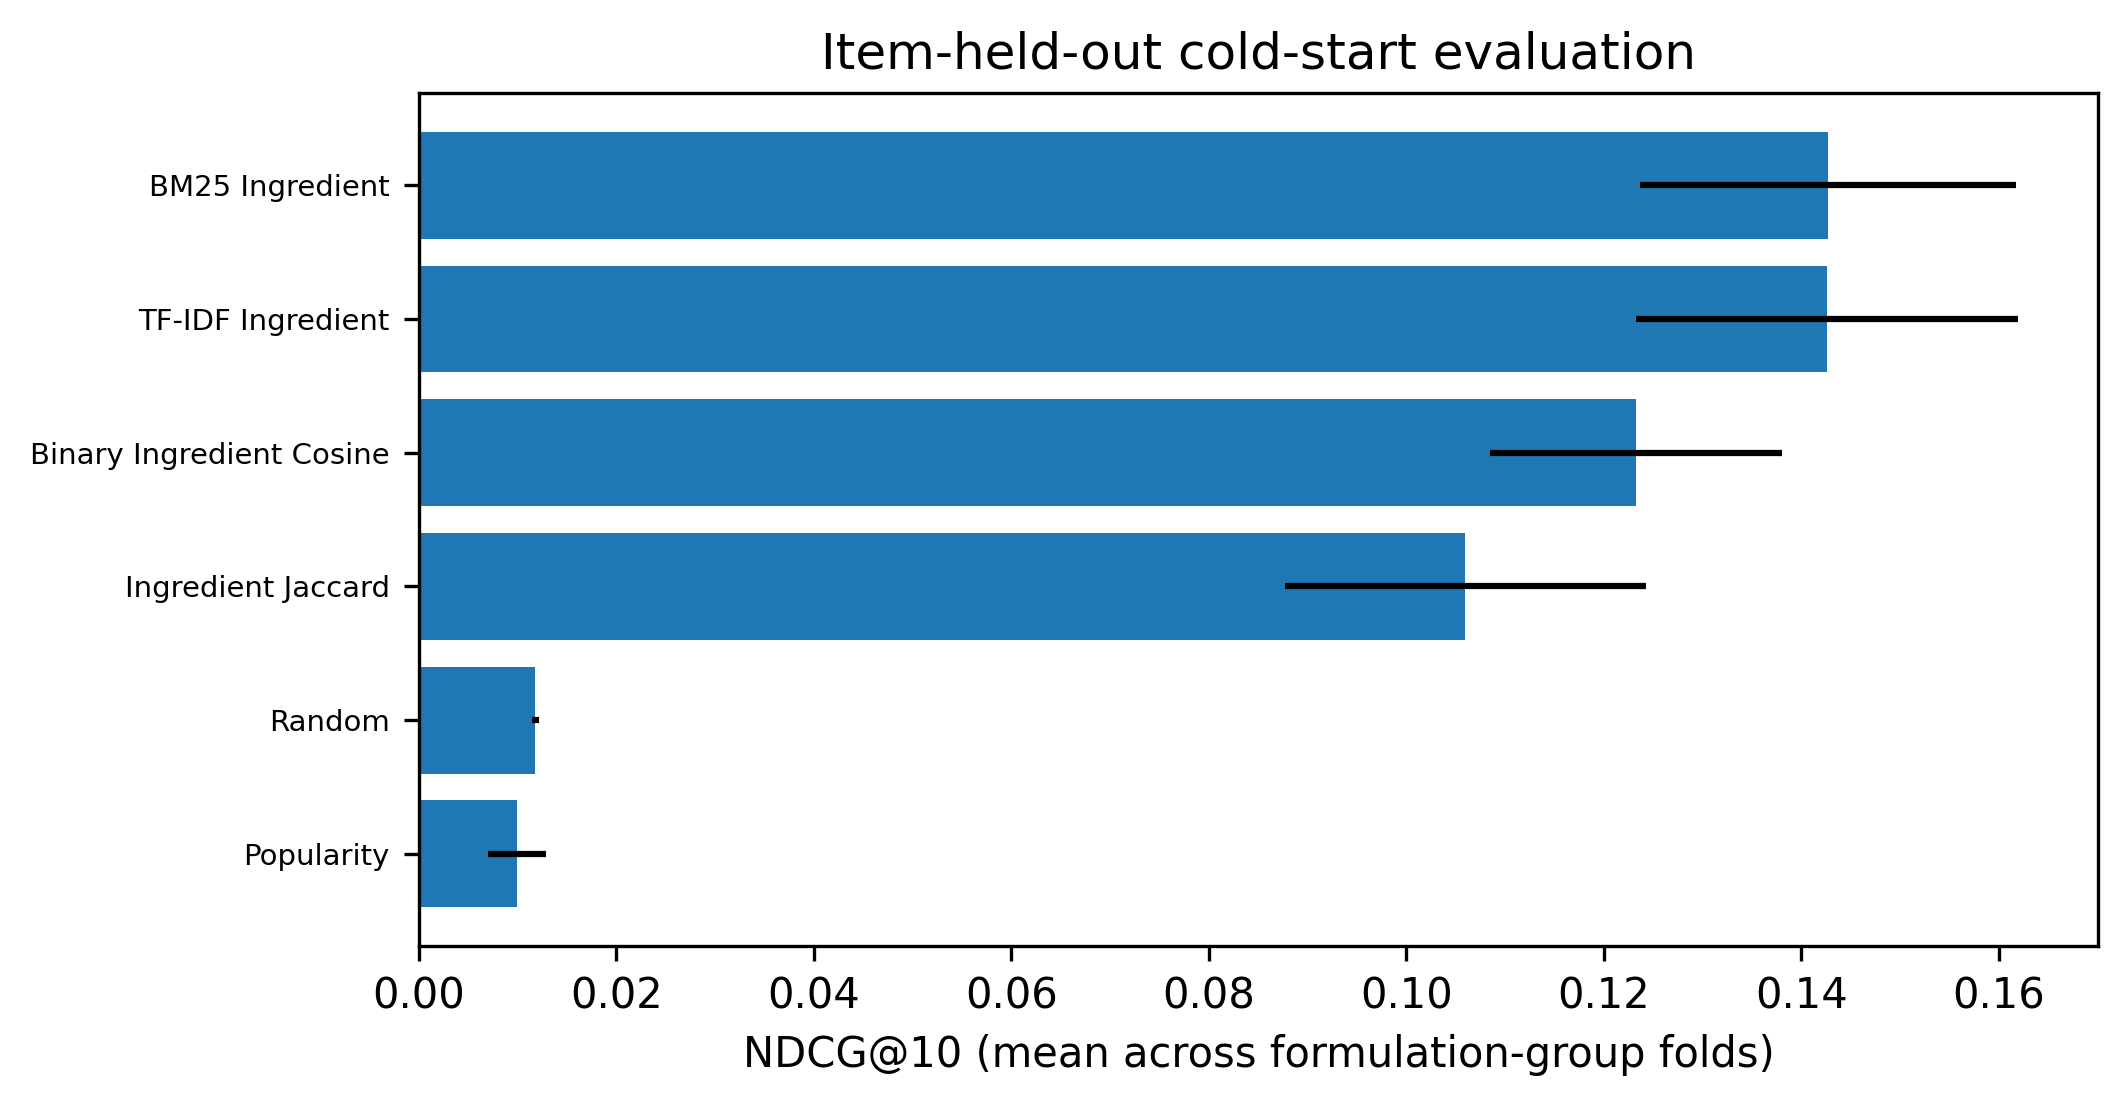
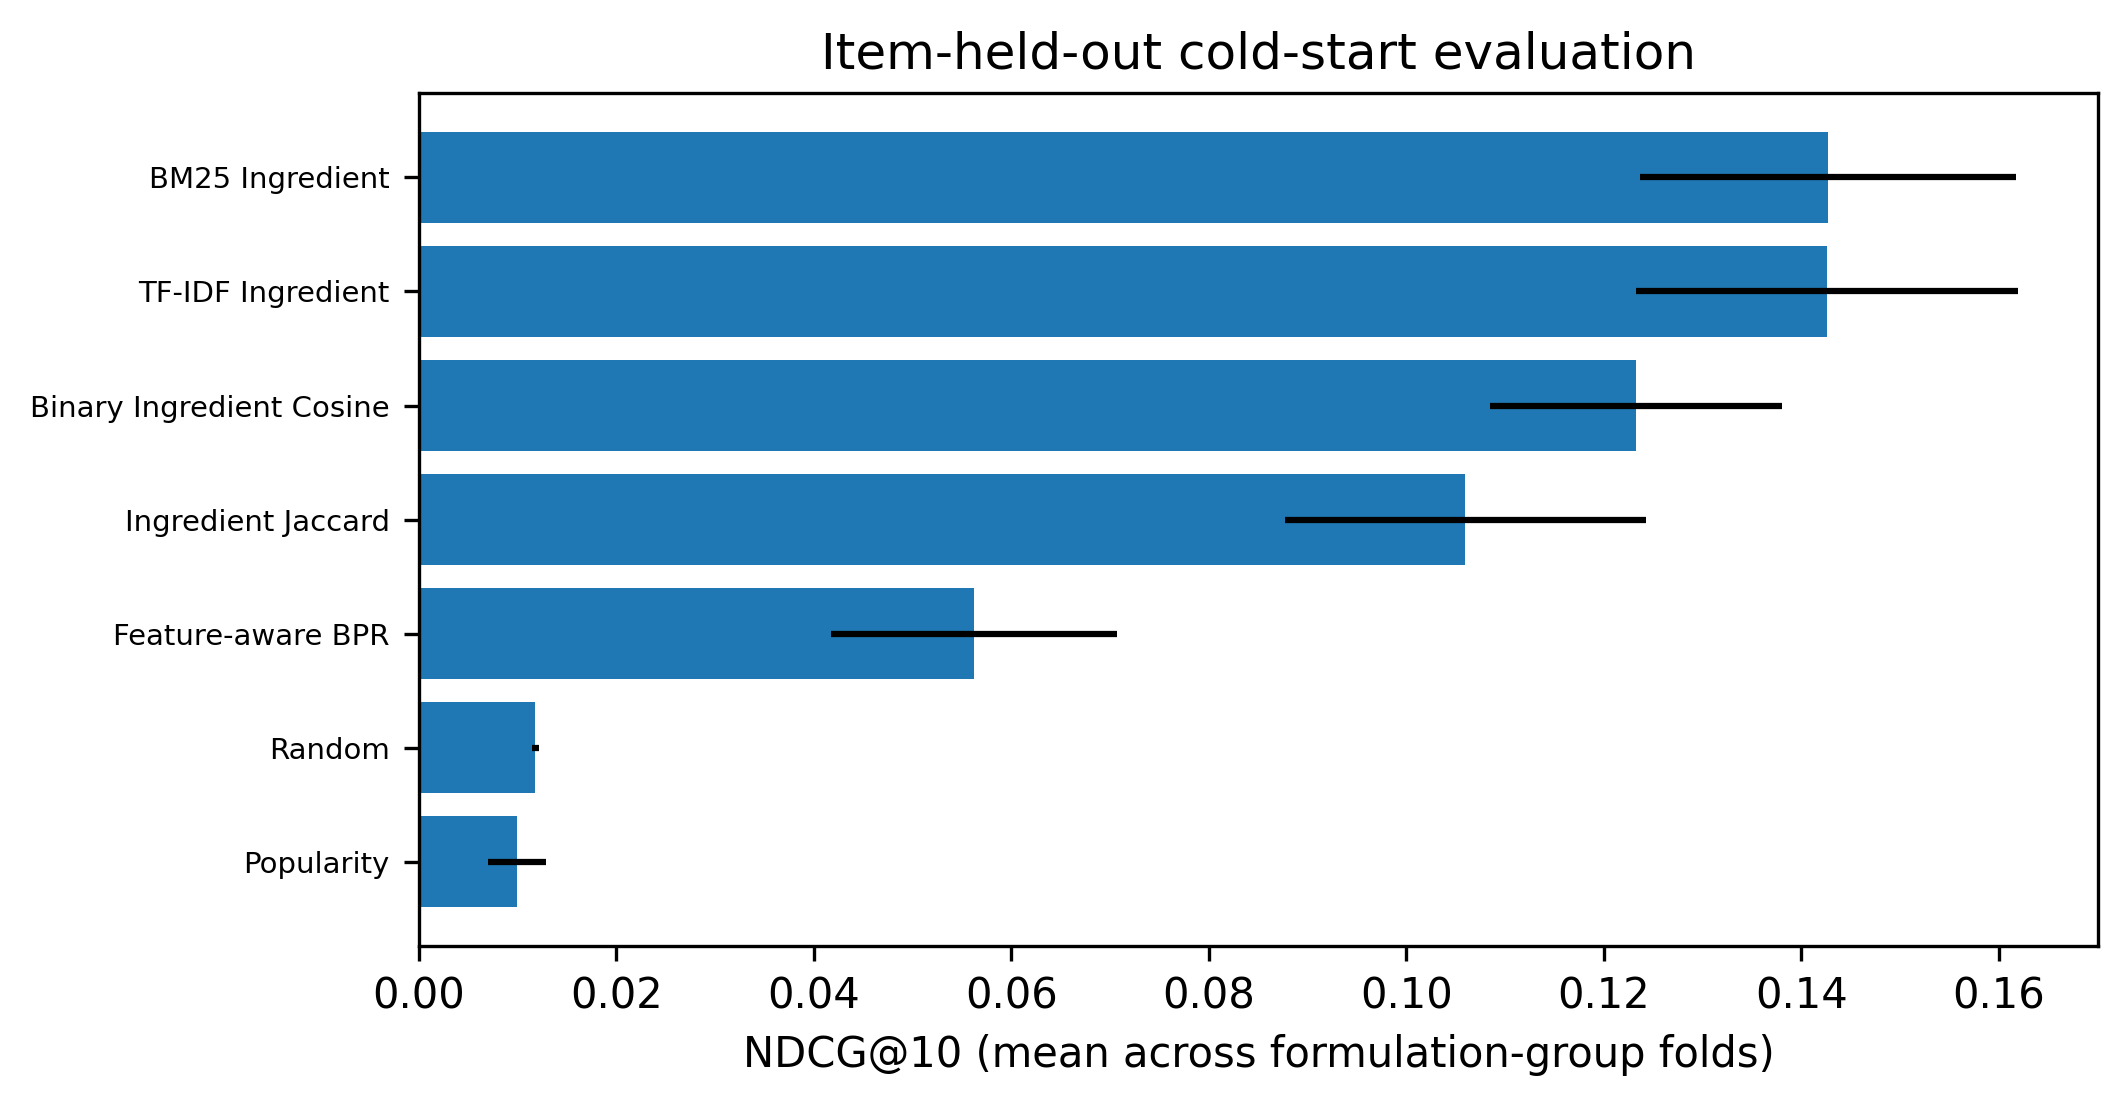
Add feature-aware BPR to cold-start protocol and profile-construction ablation
Integrates the feature-aware BPR model into the item-held-out cold-start
folds by exporting only its content-feature term for products with zero
training interactions, closing the reviewer request for a content-aware
cold-start comparator. Adds an empirical sum/mean vs. rating-weighted vs.
Rocchio user-profile ablation. Fixes a stale "hybrid_lightfm" label in
duplicate_formulation_sensitivity.csv left over from an earlier rename.

diff --git a/src/skincare_rec/pipeline.py b/src/skincare_rec/pipeline.py
@@ -314,6 +314,142 @@ def run_feature_ablation(
     return result
 
 
+def run_profile_construction_ablation(
+    config: dict[str, Any],
+    workspace: Path,
+    sample_users: int = 10_000,
+    rocchio_beta: float = 0.5,
+) -> pd.DataFrame:
+    """Compare user-profile construction strategies on the validation split.
+
+    Under L2-normalized cosine scoring, a raw interaction-count sum and a
+    mean profile are mathematically identical: mean = sum / |interactions|,
+    a positive per-user scalar removed by normalization before scoring. The
+    "TF-IDF Ingredient" model used everywhere else is therefore already both
+    the sum and the mean profile. The two constructions that do change
+    relative item weights, and that this ablation evaluates, are a
+    rating-weighted sum and a Rocchio-style profile that subtracts negative
+    feedback.
+    """
+
+    data = load_prepared(config, workspace)
+    paths = resolve_paths(config, workspace)
+    positive_threshold = int(config["data"]["positive_rating"])
+    negative_threshold = int(config["data"]["negative_rating"])
+    user_map = {value: idx for idx, value in enumerate(data.users)}
+    item_map = {value: idx for idx, value in enumerate(data.item_ids)}
+    training_items = set(np.unique(data.train_item).tolist())
+
+    positive_reviews = data.reviews[
+        data.reviews["rating"] >= positive_threshold
+    ][["author_id", "product_id", "rating", "submission_time"]].copy()
+    positive_reviews = positive_reviews[
+        positive_reviews["author_id"].isin(user_map)
+        & positive_reviews["product_id"].isin(item_map)
+    ]
+    positive_reviews = positive_reviews.sort_values(
+        ["author_id", "product_id", "submission_time"]
+    ).drop_duplicates(["author_id", "product_id"], keep="last")
+    positive_reviews["user_idx"] = (
+        positive_reviews["author_id"].map(user_map).astype(np.int32)
+    )
+    positive_reviews["item_idx"] = (
+        positive_reviews["product_id"].map(item_map).astype(np.int32)
+    )
+
+    # Ratings for exactly the leakage-safe training pairs used everywhere
+    # else (data.train_user / data.train_item); no new interactions added.
+    train_pairs = pd.DataFrame(
+        {"user_idx": data.train_user, "item_idx": data.train_item}
+    )
+    train_ratings = train_pairs.merge(
+        positive_reviews[["user_idx", "item_idx", "rating"]],
+        on=["user_idx", "item_idx"],
+        how="left",
+    )
+    train_ratings["rating"] = train_ratings["rating"].fillna(positive_threshold)
+    rating_weighted = sparse.csr_matrix(
+        (
+            train_ratings["rating"].to_numpy(dtype=np.float32),
+            (
+                train_ratings["user_idx"].to_numpy(),
+                train_ratings["item_idx"].to_numpy(),
+            ),
+        ),
+        shape=data.train_matrix.shape,
+    )
+
+    # Negative feedback restricted to training-fitted items only, so no
+    # validation/test target item's content ever enters a profile.
+    negative_reviews = data.reviews[
+        data.reviews["rating"] <= negative_threshold
+    ][["author_id", "product_id"]].copy()
+    negative_reviews = negative_reviews[
+        negative_reviews["author_id"].isin(user_map)
+        & negative_reviews["product_id"].isin(item_map)
+    ]
+    negative_reviews["user_idx"] = (
+        negative_reviews["author_id"].map(user_map).astype(np.int32)
+    )
+    negative_reviews["item_idx"] = (
+        negative_reviews["product_id"].map(item_map).astype(np.int32)
+    )
+    negative_reviews = negative_reviews[
+        negative_reviews["item_idx"].isin(training_items)
+    ].drop_duplicates(["user_idx", "item_idx"])
+    negative_matrix = sparse.csr_matrix(
+        (
+            np.ones(len(negative_reviews), dtype=np.float32),
+            (
+                negative_reviews["user_idx"].to_numpy(),
+                negative_reviews["item_idx"].to_numpy(),
+            ),
+        ),
+        shape=data.train_matrix.shape,
+    )
+    rocchio_matrix = (rating_weighted - rocchio_beta * negative_matrix).tocsr()
+
+    rng = np.random.default_rng(int(config["evaluation"]["primary_seed"]))
+    count = min(sample_users, len(data.val_user))
+    chosen = np.sort(rng.choice(len(data.val_user), size=count, replace=False))
+    users = data.val_user[chosen]
+    targets = data.val_item[chosen]
+
+    variants = [
+        ("Binary Sum/Mean (TF-IDF Ingredient)", data.train_matrix, None),
+        ("Rating-Weighted Sum", rating_weighted, None),
+        (f"Rocchio (beta={rocchio_beta})", rocchio_matrix, rocchio_beta),
+    ]
+    rows: list[dict[str, Any]] = []
+    for name, matrix, beta in variants:
+        model = FeatureCosineModel(name, matrix, data.tfidf_features)
+        result = evaluate_leave_one_out(
+            model,
+            data.train_matrix,
+            users,
+            targets,
+            [10],
+            int(config["evaluation"]["batch_size"]),
+        )
+        row = result.summary.iloc[0].to_dict()
+        row.update(
+            {
+                "profile_construction": name,
+                "rocchio_beta": beta,
+                "selection_split": "validation",
+                "sample_users": int(count),
+                "seed": int(config["evaluation"]["primary_seed"]),
+            }
+        )
+        rows.append(row)
+        print(f"Profile ablation {name}: NDCG@10={row['ndcg']:.6f}", flush=True)
+    result = pd.DataFrame(rows)
+    result.to_csv(
+        paths["results"] / "profile_construction_ablation.csv", index=False
+    )
+    return result
+
+
 def run_duplicate_sensitivity(
     config: dict[str, Any], workspace: Path
 ) -> pd.DataFrame:
@@ -563,14 +699,34 @@ def _topk(scores: np.ndarray, k: int) -> np.ndarray:
 
 
 def run_cold_start_evaluation(
-    config: dict[str, Any], workspace: Path, folds: int = 5
+    config: dict[str, Any],
+    workspace: Path,
+    folds: int = 5,
+    include_neural: list[str] | None = None,
 ) -> pd.DataFrame:
     """Evaluate genuinely unseen formulation groups.
 
     All positive interactions for a held-out formulation group are removed
     before profiles and IDF statistics are created. Ranking is performed only
     among the fold's unseen products, which is stated explicitly in the output.
+
+    Only "feature-bpr" is accepted in ``include_neural`` here. NCF and
+    LightGCN have no content branch: a product with zero training
+    interactions gets a purely random, untrained representation from them,
+    so they cannot produce a meaningful cold-start ranking and are excluded
+    structurally rather than silently reported alongside content-aware
+    methods.
     """
+
+    include_neural = include_neural or []
+    unsupported = [name for name in include_neural if name != "feature-bpr"]
+    if unsupported:
+        print(
+            f"Skipping {unsupported} for cold-start: these models have no "
+            "content branch and cannot score never-seen items.",
+            flush=True,
+        )
+    include_neural = [name for name in include_neural if name == "feature-bpr"]
 
     data = load_prepared(config, workspace)
     paths = resolve_paths(config, workspace)
@@ -641,6 +797,18 @@ def run_cold_start_evaluation(
                 "TF-IDF Ingredient", train_matrix, tfidf
             ),
         ]
+        if "feature-bpr" in include_neural:
+            model_factories.append(
+                lambda: FeatureAwareBPRModel(
+                    train=train_matrix,
+                    item_features=tfidf,
+                    dimension=int(config["models"]["neural_dimension"]),
+                    epochs=int(config["models"]["neural_epochs"]),
+                    batch_size=int(config["models"]["neural_batch_size"]),
+                    learning_rate=float(config["models"]["neural_learning_rate"]),
+                    seed=seed + fold,
+                )
+            )
         relevant = (
             fold_interactions.groupby("user_idx")["item_idx"]
             .apply(lambda values: set(int(x) for x in values))

diff --git a/src/skincare_rec/cli.py b/src/skincare_rec/cli.py
@@ -13,6 +13,7 @@ from .pipeline import (
     run_evaluation,
     run_feature_ablation,
     run_prepare,
+    run_profile_construction_ablation,
     run_reverse_evaluation,
     run_temporal_evaluation,
 )
@@ -29,6 +30,7 @@ def _parser() -> argparse.ArgumentParser:
             "prepare",
             "evaluate",
             "ablation",
+            "profile-ablation",
             "duplicate-sensitivity",
             "temporal",
             "cold-start",
@@ -62,12 +64,14 @@ def main() -> None:
         run_evaluation(config, workspace, args.neural)
     elif args.command == "ablation":
         run_feature_ablation(config, workspace)
+    elif args.command == "profile-ablation":
+        run_profile_construction_ablation(config, workspace)
     elif args.command == "duplicate-sensitivity":
         run_duplicate_sensitivity(config, workspace)
     elif args.command == "temporal":
         run_temporal_evaluation(config, workspace)
     elif args.command == "cold-start":
-        run_cold_start_evaluation(config, workspace)
+        run_cold_start_evaluation(config, workspace, include_neural=args.neural)
     elif args.command == "reverse":
         run_reverse_evaluation(config, workspace)
     elif args.command == "cluster":
@@ -79,10 +83,11 @@ def main() -> None:
         run_audit(config, workspace)
         run_prepare(config, workspace)
         run_feature_ablation(config, workspace)
+        run_profile_construction_ablation(config, workspace)
         run_evaluation(config, workspace, args.neural)
         run_duplicate_sensitivity(config, workspace)
         run_temporal_evaluation(config, workspace)
-        run_cold_start_evaluation(config, workspace)
+        run_cold_start_evaluation(config, workspace, include_neural=args.neural)
         run_reverse_evaluation(config, workspace)
         run_cluster_stability(config, workspace)
         for path in generate_all(config, workspace):

diff --git a/src/skincare_rec/neural.py b/src/skincare_rec/neural.py
@@ -110,6 +110,22 @@ class FeatureAwareBPRModel(_BPRBase):
             self.item_embedding(item_tensor)
             + self.feature_projection(self.features)
         ).detach().cpu().numpy()
+        # Items with zero training interactions (e.g. a genuinely held-out
+        # cold-start product) never appear in `cols`, so their free item
+        # embedding never receives a gradient update and would otherwise
+        # keep contributing its random initial value as noise. Overwrite
+        # those rows with the content-feature term alone so untrained items
+        # are scored purely from their features, matching the cold-start
+        # claim that this model can rank never-seen products.
+        untrained = np.ones(train.shape[1], dtype=bool)
+        untrained[np.unique(cols)] = False
+        if untrained.any():
+            self.item_factors[untrained] = (
+                self.feature_projection(self.features[untrained])
+                .detach()
+                .cpu()
+                .numpy()
+            )
 
     def score(self, user_indices: np.ndarray) -> np.ndarray:
         return self.user_factors[user_indices] @ self.item_factors.T

diff --git a/tests/test_manuscript_guardrails.py b/tests/test_manuscript_guardrails.py
@@ -16,7 +16,7 @@ def _manuscript_path() -> Path:
         Path(__file__).parents[1]
         / "manuscript"
         / "revised"
-        / "main (1).tex"
+        / "main.tex"
     )
 
 
